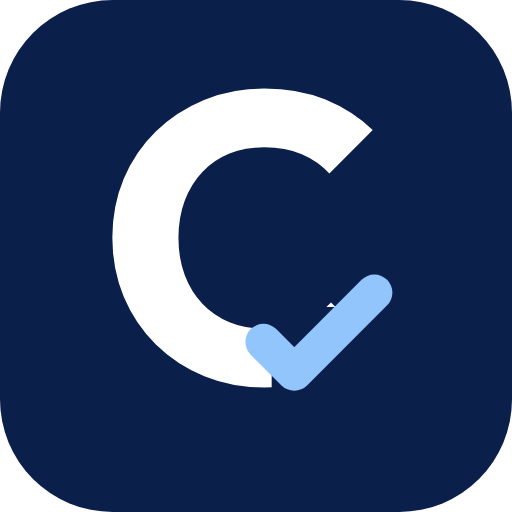
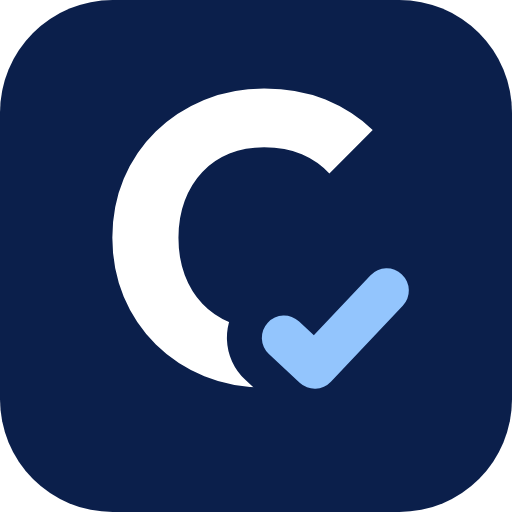
Separate Check-C geometry and refine curled d in brand kit

Changed region(s): [[0.4375, 0.5, 0.8125, 0.7812]]

diff --git a/docs/brand/fix/compare.html b/docs/brand/fix/compare.html
@@ -1,0 +1,1 @@
+<!doctype html><html lang="en"><meta charset="utf-8"><title>Check-C spacing</title><style>body{margin:0;padding:30px;background:#eff5fc;color:#0B1F4B;font:16px Arial}h1{margin-top:0}.grid{display:grid;grid-template-columns:repeat(3,1fr);gap:20px}article{background:white;border-radius:24px;overflow:hidden}h2,p{margin:20px}.sample{padding:25px;background:white}.dark{background:#0B1F4B;color:white}img{display:block;max-width:100%;margin:20px 0}.pair{background:white;padding:24px;border-radius:24px;margin:20px 0}</style><h1>Check-C · gap study</h1><p>30 / 40 / 50% of a 130-unit reference letter stroke. Check stroke: 108 units (83%).</p><div class="grid"><article><h2>Option A · 30% gap</h2><p>Comparison only</p><div class="sample "><img height="48" src="spacing-a.svg" alt="30% 48px"><span>48px</span><img height="24" src="spacing-a.svg" alt="30% 24px"><span>24px</span></div><div class="sample dark"><img height="48" src="spacing-a-dark.svg" alt="30% 48px"><span>48px</span><img height="24" src="spacing-a-dark.svg" alt="30% 24px"><span>24px</span></div></article><article><h2>Option B · 40% gap</h2><p>Selected</p><div class="sample "><img height="48" src="spacing-b.svg" alt="40% 48px"><span>48px</span><img height="24" src="spacing-b.svg" alt="40% 24px"><span>24px</span></div><div class="sample dark"><img height="48" src="spacing-b-dark.svg" alt="40% 48px"><span>48px</span><img height="24" src="spacing-b-dark.svg" alt="40% 24px"><span>24px</span></div></article><article><h2>Option C · 50% gap</h2><p>Comparison only</p><div class="sample "><img height="48" src="spacing-c.svg" alt="50% 48px"><span>48px</span><img height="24" src="spacing-c.svg" alt="50% 24px"><span>24px</span></div><div class="sample dark"><img height="48" src="spacing-c-dark.svg" alt="50% 48px"><span>48px</span><img height="24" src="spacing-c-dark.svg" alt="50% 24px"><span>24px</span></div></article></div>

diff --git a/docs/brand/fix/before-after.html b/docs/brand/fix/before-after.html
@@ -1,0 +1,1 @@
+<!doctype html><html lang="en"><meta charset="utf-8"><title>BK1 to BK1b</title><style>body{margin:0;padding:30px;background:#eff5fc;color:#0B1F4B;font:16px Arial}h1{margin-top:0}.grid{display:grid;grid-template-columns:repeat(3,1fr);gap:20px}article{background:white;border-radius:24px;overflow:hidden}h2,p{margin:20px}.sample{padding:25px;background:white}.dark{background:#0B1F4B;color:white}img{display:block;max-width:100%;margin:20px 0}.pair{background:white;padding:24px;border-radius:24px;margin:20px 0}</style><h1>BK1 → BK1b · separated check and curled d</h1><div class="pair"><h2>Before · BK1</h2><img width="900" src="bk1-before.svg" alt="Before · BK1"><img height="28" src="bk1-before.svg" alt="Before · BK1 28px"></div><div class="pair"><h2>After · option B</h2><img width="900" src="spacing-b.svg" alt="After · option B"><img height="28" src="spacing-b.svg" alt="After · option B 28px"></div>

diff --git a/docs/brand/build-v2.py b/docs/brand/build-v2.py
@@ -10,14 +10,19 @@ f=instantiateVariableFont(TTFont('src/fonts/outfit-latin-wght-normal.woff2'),{'w
 g=f.getGlyphSet();c=f.getBestCmap()
 def glyph(ch):
  p=SVGPathPen(g);g[c[ord(ch)]].draw(p);return p.getCommands()
-def word(color,check,mark=False):
- defs='<defs><mask id="ct"><rect x="-100" y="-100" width="1000" height="1000" fill="white"/><rect x="420" y="-40" width="400" height="225" fill="black"/></mask><mask id="dt"><rect x="-100" y="-100" width="1000" height="1000" fill="white"/><rect x="420" y="-65" width="200" height="160" rx="55" fill="black"/></mask></defs>'
- art=f'<path d="{glyph("C")}" fill="{color}" mask="url(#ct)"/><path d="M400 100 475 25 670 220" fill="none" stroke="{check}" stroke-width="88" stroke-linecap="round" stroke-linejoin="round"/>'
+def word(color,check,mark=False,gap=52):
+ # Small marks keep a raster-safe optical gap floor.
+ if mark: gap=max(gap,85)
+ # Reference letter stroke ~130 font units; check 108 (83%), gap B=52 (40%).
+ check_path='M450 110 525 40 700 225'
+ defs=f'<defs><mask id="ct"><rect x="-100" y="-100" width="1100" height="1100" fill="white"/><rect x="430" y="-60" width="400" height="230" fill="black"/><path d="{check_path}" fill="none" stroke="black" stroke-width="{108+2*gap}" stroke-linecap="round" stroke-linejoin="round"/></mask><mask id="dt"><rect x="-100" y="-100" width="1000" height="1000" fill="white"/><rect x="390" y="-50" width="240" height="220" rx="45" fill="black"/></mask></defs>'
+ art=f'<path d="{glyph("C")}" fill="{color}" mask="url(#ct)"/><path d="{check_path}" fill="none" stroke="{check}" stroke-width="108" stroke-linecap="round" stroke-linejoin="round"/>'
  x=f['hmtx'][c[67]][0]-10
  if not mark:
   for ch in 'reident':
    shape=f'<path d="{glyph(ch)}" fill="{color}"'+(' mask="url(#dt)"' if ch=='d' else '')+'/>'
-   if ch=='d':shape+=f'<path d="M463 200V115Q463 35 400 68L350 100" fill="none" stroke="{color}" stroke-width="105" stroke-linecap="round" stroke-linejoin="round"/>'
+   if ch=='d':shape+=f'<path d="M463 220V130Q465 38 408 58Q380 65 350 100" fill="none" stroke="{color}" stroke-width="105" stroke-linecap="round" stroke-linejoin="round"/>'
+   if ch=='d': shape+=f'<circle cx="450" cy="100" r="26" fill="{color}"/>'
    art+=f'<g transform="translate({x} 0)">{shape}</g>';x+=f['hmtx'][c[ord(ch)]][0]-10
  w=48 if mark else (x+55)*.05
  transform='translate(3 41) scale(.055 -.055)' if mark else 'translate(0 40) scale(.05 -.05)'
@@ -30,3 +35,9 @@ def icon(bg,light=False,sapphire=False,maskable=False):
 for n,b,l,s in [('navy','#0B1F4B',True,False),('white','#FFFFFF',False,False),('sapphire','#3B82F6',True,True)]: (out/f'app-icon-{n}.svg').write_text(icon(b,l,s))
 (out/'favicon.svg').write_text(word('#0B1F4B','#3B82F6',True))
 (out/'maskable-source.svg').write_text(icon('#0B1F4B',True,False,True))
+
+# Diagnostic options use identical artwork, varying only the exclusion gap.
+fix=Path('docs/brand/fix');fix.mkdir(parents=True,exist_ok=True)
+for letter,gap in [('a',39),('b',52),('c',65)]:
+ (fix/f'spacing-{letter}.svg').write_text(word('#0B1F4B','#3B82F6',gap=gap))
+ (fix/f'spacing-{letter}-dark.svg').write_text(word('#FFFFFF','#93C5FD',gap=gap))

diff --git a/docs/brand/BRAND.md b/docs/brand/BRAND.md
@@ -7,7 +7,7 @@ application. Existing brand files remain unchanged. This guide governs the new
 ## Meaning and construction
 
 Creident records the terms, steps and decisions of a buyer–seller deal. The C's
-lower terminal becomes an attached check: agreement goes on record. A soft inward
+lower terminal becomes an separated check: agreement goes on record. A soft inward
 hook at the bottom of the d stem meets its bowl, leaving a small rounded notch at
 the lower right. Other letters are standard Outfit. Spelling: **Creident**.
 
@@ -85,7 +85,7 @@ and use monochrome exports when one ink is required. Use supplied favicon/icon
 exports instead of shrinking the entire wordmark into an app tile.
 
 Do not stretch, rotate, recolor the check outside the supplied variants, add shadows
-or gradients, place on busy photographs, separate the check from the C, edit the d
+or gradients, place on busy photographs, change the specified C/check spacing, edit the d
 hook, change spelling, or imply guaranteed outcomes. Do not replace app wiring in
 this asset-preparation step.
 
@@ -97,3 +97,19 @@ is 1440px wide. Managed Chromium blocks file:// navigation; a temporary local st
 server was used for preview/export. The board has only relative local references,
 no scripts or CDN; direct-file behavior cannot be verified in this managed browser.
 All 37 images load without overflow. Sanity gate results are recorded in HANDOFF.md.
+
+
+## BK1b spacing refinement
+
+Option B uses a 52-unit separation (40% of the 130-unit reference letter stroke).
+Check stroke is 108 units (83%), round caps/joins. A geometric exclusion mask
+keeps letter and check separate even in monochrome exports. C lower terminal is
+trimmed around five o'clock; the check is repositioned inside the opening.
+The d stem bends inward to meet its bowl; the lower-right contour is hooked.
+Other glyph outlines are unchanged.
+
+At 16px, the mathematical 40% gap could close visually through antialiasing.
+Standalone marks therefore use an 85-unit optical exclusion floor, propagated to
+app icons/favicons. This is a small-size exception, not a different wordmark option.
+See fix/compare.html (A 30%, B 40%, C 50%) and fix/before-after.png. The check stays
+part of the fixed composition, but must never touch the C. Use the supplied exports.

diff --git a/docs/HANDOFF.md b/docs/HANDOFF.md
@@ -173,6 +173,23 @@ Still open:
 
 ## Log
 
+### 2026-10-30 — BK1b C/check spacing and d refinement
+
+- Continued ui/creident-mockup from aefa16e. Trimmed C lower terminal and used an
+  exclusion mask to separate the rounded check. Check stroke 108 units (83% of
+  reference 130-unit letter stroke); wordmark option B gap 52 units (40%).
+  A/B/C spacing studies and light/dark 48/24px comparisons in docs/brand/fix/.
+- d hook now bends visibly inward and meets its bowl; remaining glyphs unchanged.
+  Preserved BK1 baseline SVG and before/after screenshot for owner review.
+- At 16px, 40% vector gap visually closed through antialiasing; standalone mark
+  uses 85-unit optical floor. Raster inspection confirms a background gap between
+  C/check, also in mono vector geometry. This exception is documented in BRAND.md.
+- Regenerated all v2 SVG/PNG/favicon/app/maskable/OG exports and board screenshot.
+  Node 22.23.4: 522 tests/50 files, typecheck/build pass. Only docs/brand,
+  public/brand/v2 and handoff changed. No dependencies or app wiring/deployment.
+- Push target origin/ui/creident-mockup; no PR claimed. Manual compare:
+  https://github.com/Ilham-Musyafa/Creident/compare/main...ui/creident-mockup
+
 ### 2026-10-30 — BK1 Check-C brand kit (no app wiring)
 
 - Continued ui/creident-mockup from clean 600c55b. Rebuilt attached visual direction
